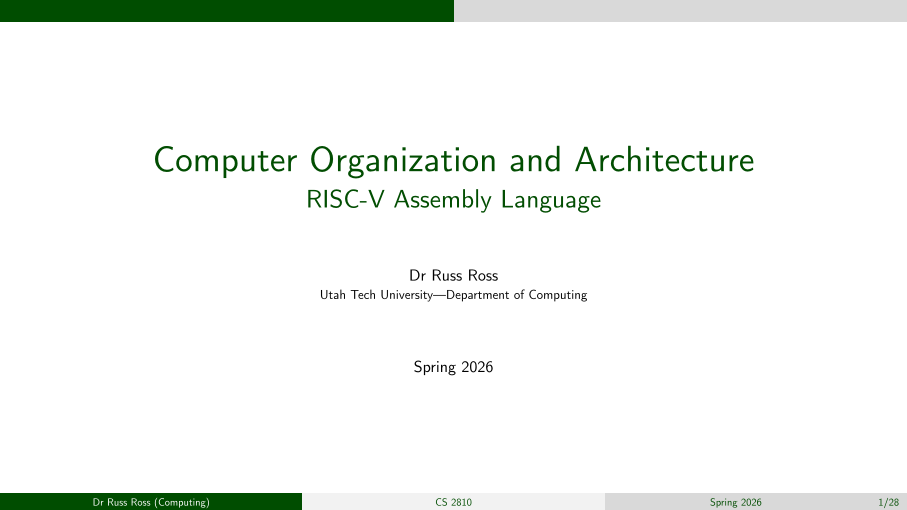
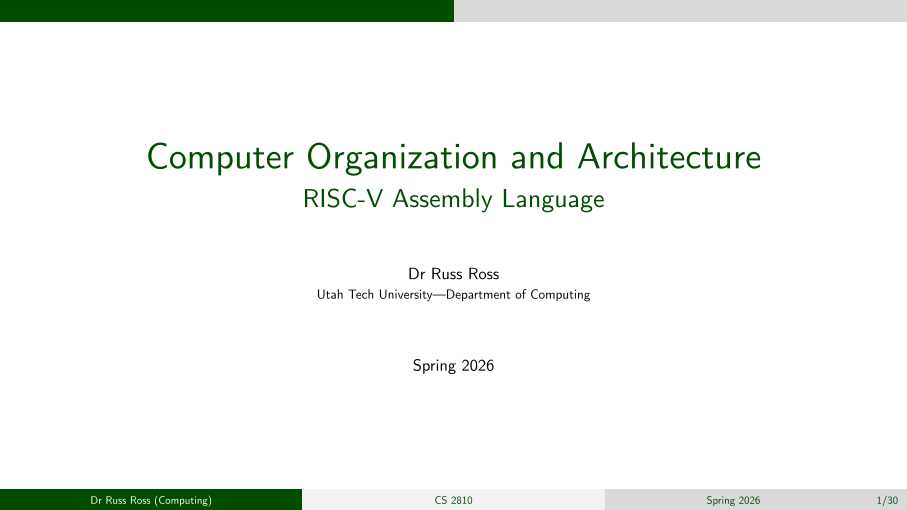
readme updates

diff --git a/README.md b/README.md
@@ -25,6 +25,7 @@ Import the template and apply it with `#show`:
   short-title: [CS 3520],
   subtitle: [Types],
   author: [Dr Russ Ross],
+  short-author: [Dr Russ Ross],
   institute: [Utah Tech University—Department of Computing],
   short-institute: [Computing],
   date: [Fall 2025],
@@ -33,9 +34,9 @@ Import the template and apply it with `#show`:
 
 Then write your deck using standard Typst headings:
 
-- `=` sets the current **section** (appears in the header bar and PDF bookmarks, I generally use one section per lecture)
-- `==` sets the current **topic** (appears in the header bar and PDF bookmarks)
-- `===` starts a **new slide** with the given title
+- `=` sets the current **section** for the running header and PDF bookmarks
+- `==` sets the current **topic** for the running header and PDF bookmarks
+- `===` starts a **new slide** and supplies that slide's title
 - `====` creates a styled **subheading** inside a slide body
 
 ```typ
@@ -52,29 +53,40 @@ We will use the term _type_ to refer to a _static_ check.
 Types are an abstraction of run-time values.
 ```
 
-If a slide is too long it will spill onto another slide.
+The deck always starts with a title page. Slides begin at each `===` heading. If
+content runs long, it naturally continues onto following pages with the same
+slide title and header/footer styling.
 
 
 ## Configuration
 
-All parameters to `slides()` are optional except the body. Common options:
+All parameters to `slides()` are optional except the body:
 
 | Parameter          | Default                    | Description                          |
 |--------------------|----------------------------|--------------------------------------|
 | `title`            | `[Untitled]`               | Title shown on the title slide       |
 | `subtitle`         | `none`                     | Line below the title                 |
-| `short-title`      | same as `title`            | Compact label for the footer         |
+| `short-title`      | `auto`                     | Footer title; defaults to `title`    |
 | `author`           | `none`                     | Author line on the title slide       |
+| `short-author`     | `auto`                     | Footer author; defaults to `author`  |
 | `institute`        | `none`                     | Institute line on the title slide    |
 | `short-institute`  | `none`                     | Short institute for the footer       |
 | `date`             | `none`                     | Date on title slide and footer       |
 | `color`            | `rgb(0, 77, 0)`            | Primary accent color                 |
-| `font-size`        | `8pt`                      | Base body size (others derive from it)|
+| `text-font`        | `"CMU Serif"`              | Main body font                       |
+| `heading-font`     | `"CMU Sans Serif"`         | Header/title/heading font            |
+| `mono-font`        | `"CMU Typewriter Text"`    | Code/raw text font                   |
+| `math-font`        | `"New Computer Modern Math"` | Math font                          |
+| `text-size`        | `9pt`                      | Base body size                       |
+| `mono-scale`       | `auto`                     | Inline code size relative to text    |
+| `block-mono-scale` | `auto`                     | Block code size relative to body text |
 | `aspect-ratio`     | `"16-9"`                   | `"16-9"` or `"4-3"`                 |
 
-Font faces (`text-font`, `heading-font`, `mono-font`, `math-font`) and
-fine-grained size overrides (`heading-size`, `mono-size`, `chrome-size`) are
-also available as variables.
+With the defaults, the footer shows:
+
+- left: `short-author (short-institute)` when both are present, with sensible fallbacks
+- middle: `short-title`
+- right: `date` and `current/total` page numbering
 
 
 ## Building
